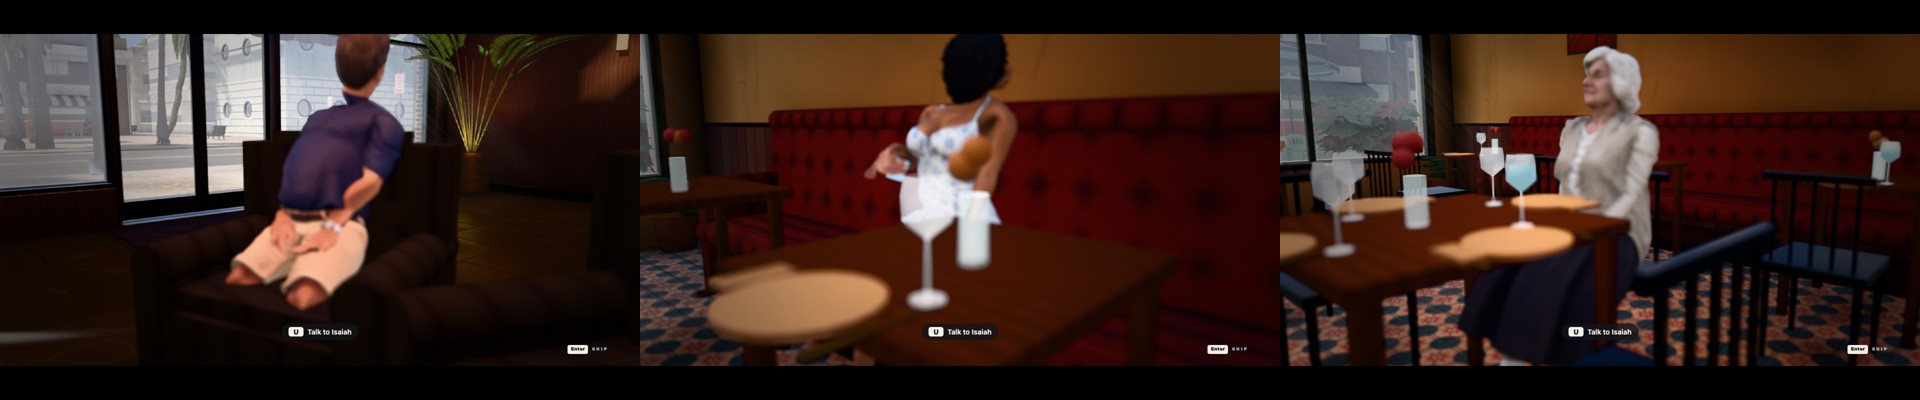
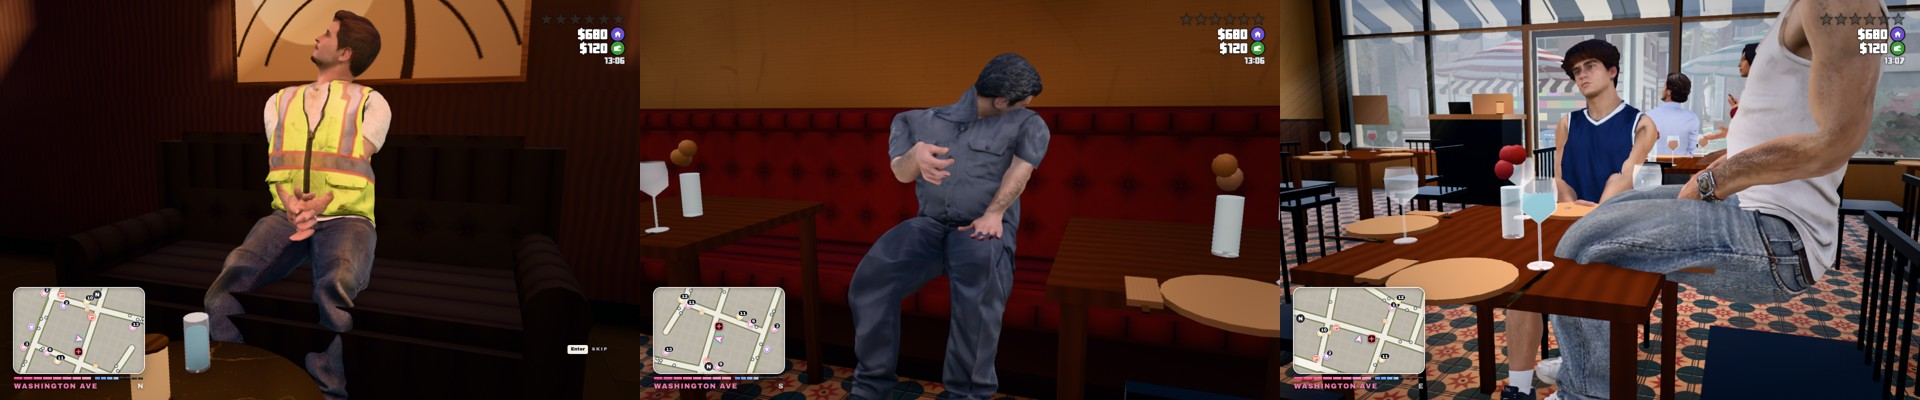
r2-people: furniture seats face away from the probed backrest (a chair spot whose heading points into the back is turned around), cushion extent found around the spot both ways; guard drops the seat pose when the knee folds under 60 deg or the feet end above the cushion; phone variant off (no prop, 

diff --git a/src/npc/furnitureSeat.js b/src/npc/furnitureSeat.js
@@ -38,42 +38,47 @@ export function probeFurniture(scene, pos, heading, floorY) {
   const fx = Math.sin(heading), fz = Math.cos(heading), lx = Math.cos(heading), lz = -Math.sin(heading);
   const meshes = nearMeshes(scene, pos, 1.6);
   const top = floorY + 1.6;
-  // walk along the seat's center line from 0.35 m in front of the spot to 0.75 m behind it
+  // walk along the seat's center line both ways (0.75 m in front of and behind the spot)
   const prof = [];
-  for (let t = 0.35; t >= -0.75; t -= 0.05) { const y = castY(meshes, pos.x + fx * t, top, pos.z + fz * t, 1.75); prof.push([t, y === null ? null : y - floorY]); }
-  // cushion: the LOWEST flat run (>= 3 neighboring samples within 3 cm) between 0.28 and 0.8 m: armrests, backs and
-  // table tops are higher, so the most common height is not the seat (lobby armchairs: people sat on the arm)
-  const hs = prof.filter(([, h]) => h !== null && h > 0.28 && h < 0.8);
-  let res = null;
-  let best = null;
+  for (let t = 0.75; t >= -0.75; t -= 0.05) { const y = castY(meshes, pos.x + fx * t, top, pos.z + fz * t, 1.75); prof.push([t, y === null ? null : y - floorY]); }
+  // cushion: the LOWEST flat run (>= 3 neighboring samples within 3 cm) between 0.28 and 0.8 m near the spot: armrests,
+  // backs and table tops are higher, so the most common height is not the seat (lobby armchairs: people sat on the arm)
+  let res = null, best = null;
   for (let i = 0; i + 2 < prof.length; i++) {
     const r = [prof[i][1], prof[i + 1][1], prof[i + 2][1]];
-    if (prof[i][0] > 0.2 || r.some((h) => h === null || h < 0.28 || h > 0.8)) continue;   // on the seat, not a coffee table in front
+    if (Math.abs(prof[i + 1][0]) > 0.45 || r.some((h) => h === null || h < 0.28 || h > 0.8)) continue;
     if (Math.max(...r) - Math.min(...r) > 0.03) continue;
     const h = (r[0] + r[1] + r[2]) / 3; if (best === null || h < best - 0.02) best = h;
   }
   if (best !== null) {
-    const cush = hs.filter(([, h]) => Math.abs(h - best) < 0.05);
-    const front = Math.max(...cush.map(([t]) => t));
-    const behind = prof.filter(([t, h]) => t < front && h !== null && h > best + 0.15);   // the backrest rises behind the cushion
-    const backZ = behind.length ? Math.max(...behind.map(([t]) => t)) : Math.min(...cush.map(([t]) => t)) - 0.05;
+    // the cushion's extent around the spot, then the backrest on whichever side rises next to it
+    const on = (k) => prof[k] && prof[k][1] !== null && Math.abs(prof[k][1] - best) < 0.05;
+    let c0 = prof.findIndex(([t]) => Math.abs(t) < 0.026); if (!on(c0)) { c0 = prof.findIndex((q, k) => on(k) && Math.abs(q[0]) <= 0.45); }
+    let a0 = c0, a1 = c0; while (on(a0 - 1)) a0--; while (on(a1 + 1)) a1++;
+    const tHi = prof[a0][0], tLo = prof[a1][0];                     // prof runs from +t to -t
+    const high = (k) => prof[k] && prof[k][1] !== null && prof[k][1] > best + 0.15;
+    const ahead = high(a0 - 1) || high(a0 - 2), behind = high(a1 + 1) || high(a1 + 2);
+    // forward = away from the backrest: a chair spot whose heading points INTO the backrest is turned around
+    const flip = ahead && !behind;
+    const front = flip ? -tLo : tHi, backZ = flip ? -tHi : (behind ? tLo : tLo - 0.05);
     const depth = front - backZ;
     if (depth > 0.28) {
+      const fx2 = flip ? -fx : fx, fz2 = flip ? -fz : fz, lx2 = flip ? -lx : lx, lz2 = flip ? -lz : lz;
       // armrests: a raised surface 0.2-0.45 m to each side at mid-seat
       const mid = backZ + depth * 0.5; const arm = [];
       for (const sg of [1, -1]) {
         let found = null;
-        for (let o = 0.22; o <= 0.46 && !found; o += 0.04) { const y = castY(meshes, pos.x + fx * mid + lx * o * sg, top, pos.z + fz * mid + lz * o * sg, 1.75); if (y !== null && y - floorY > best + 0.12 && y - floorY < best + 0.45) found = { o, h: y - floorY }; }
+        for (let o = 0.22; o <= 0.46 && !found; o += 0.04) { const y = castY(meshes, pos.x + fx2 * mid + lx2 * o * sg, top, pos.z + fz2 * mid + lz2 * o * sg, 1.75); if (y !== null && y - floorY > best + 0.12 && y - floorY < best + 0.45) found = { o, h: y - floorY }; }
         arm.push(found);
       }
-      res = { cushion: best, front, backZ, depth, armL: arm[0], armR: arm[1], back: !!behind.length };
+      res = { cushion: best, front, backZ, depth, armL: arm[0], armR: arm[1], back: flip || behind, flip };
     }
   }
   PROBES.set(key, res); DEBUG.last = { key, res, prof, meshes: meshes.length };
   return res;
 }
 
-const VARIANTS = ['back', 'back', 'forward', 'clasped', 'phone', 'armrest', 'turned'];
+const VARIANTS = ['back', 'back', 'forward', 'clasped', 'back', 'armrest', 'turned'];   // 'phone' held without a phone prop read as a hunch: off
 /** after ped.char.update(): pose a bench / chair sitter on the probed seat (call every frame while seated) */
 export function sitOnFurniture(game, ped, dt) {
   const ch = ped.char; if (!ch?.root) return;
@@ -84,7 +89,8 @@ export function sitOnFurniture(game, ped, dt) {
     const pr = probeFurniture(game.scene, ped.spot?.pos || ped.pos, ped.heading, floor);
     F.pr = pr; F.floor = floor; F.prof = DEBUG.last?.prof;
     if (!pr) return;
-    const fx = Math.sin(ped.heading), fz = Math.cos(ped.heading), lx = Math.cos(ped.heading), lz = -Math.sin(ped.heading);
+    const hd = ped.heading + (pr.flip ? Math.PI : 0); F.hd = hd;
+    const fx = Math.sin(hd), fz = Math.cos(hd), lx = Math.cos(hd), lz = -Math.sin(hd);
     const base = ped.spot?.pos || ped.pos;
     const hz = pr.backZ + 0.13 + (pr.back ? 0 : 0.1);                       // ~13 cm in front of the backrest
     const seed = ((ped.id || 1) * 2654435761 >>> 0) / 4294967296;
@@ -97,7 +103,7 @@ export function sitOnFurniture(game, ped, dt) {
     const heelZ = Math.max(hz + knee, pr.front + 0.06 + seed * 0.16) - hz;
     const heel = new THREE.Vector3(hip.x + fx * heelZ, floor, hip.z + fz * heelZ);
     const W = (x, y, z) => new THREE.Vector3(hip.x + fx * z + lx * x, hip.y + y, hip.z + fz * z + lz * x);
-    const A = { id: 'front', i: 1, open: true, roofY: NaN, doorX: 3, wheel: null, hip, heel, yaw: ped.heading + (v === 'turned' ? (seed < 0.5 ? 0.3 : -0.3) : 0),
+    const A = { id: 'front', i: 1, open: true, roofY: NaN, doorX: 3, wheel: null, hip, heel, yaw: hd + (v === 'turned' ? (seed < 0.5 ? 0.3 : -0.3) : 0),
       recline: v === 'forward' ? -14 : v === 'phone' ? 8 : v === 'clasped' ? 12 : (pr.back ? 20 : 6) + seed * 6 };
     if (v === 'forward') A.grips = [{ side: 'Left', p: W(0.05, 0.12, heelZ * 0.78) }, { side: 'Right', p: W(-0.05, 0.12, heelZ * 0.78) }];
     else if (v === 'clasped') A.grips = [{ side: 'Left', p: W(0.04, 0.14, 0.24) }, { side: 'Right', p: W(-0.04, 0.14, 0.24) }];
@@ -107,7 +113,19 @@ export function sitOnFurniture(game, ped, dt) {
     if (v === 'phone' && ch._seat) ch._seat.chin = 14;                       // looking down at the phone
     F.ok = true; F.v = v;
   }
-  if (F.ok) solveSeat(ch, dt);
+  if (F.ok) {
+    solveSeat(ch, dt);
+    // guard (first second): feet must end on the floor below the cushion and the knees must not fold under (< 60 deg)
+    if ((F.chk = (F.chk || 0) + 1) < 40 && F.chk % 10 === 0) {
+      const g = (n) => ch.getBone(n)?.getWorldPosition(new THREE.Vector3());
+      const hp = g('LeftUpLeg'), kn = g('LeftLeg'), ft = g('LeftFoot'); const floor = F.floor ?? ped.pos.y;
+      if (hp && kn && ft) {
+        const a = new THREE.Vector3().subVectors(hp, kn).normalize(), b = new THREE.Vector3().subVectors(ft, kn).normalize();
+        const knee = Math.acos(THREE.MathUtils.clamp(a.dot(b), -1, 1)) / Math.PI * 180;
+        if (knee < 60 || ft.y - floor > (F.pr?.cushion ?? 0.45) - 0.05) { F.ok = false; unseatCharacter(ch); }
+      }
+    }
+  }
 }
 /** the sitter got up (or was released): drop the seat pose */
 export function standUp(ped) { if (ped?._furn) { ped._furn = null; unseatCharacter(ped.char); } }
